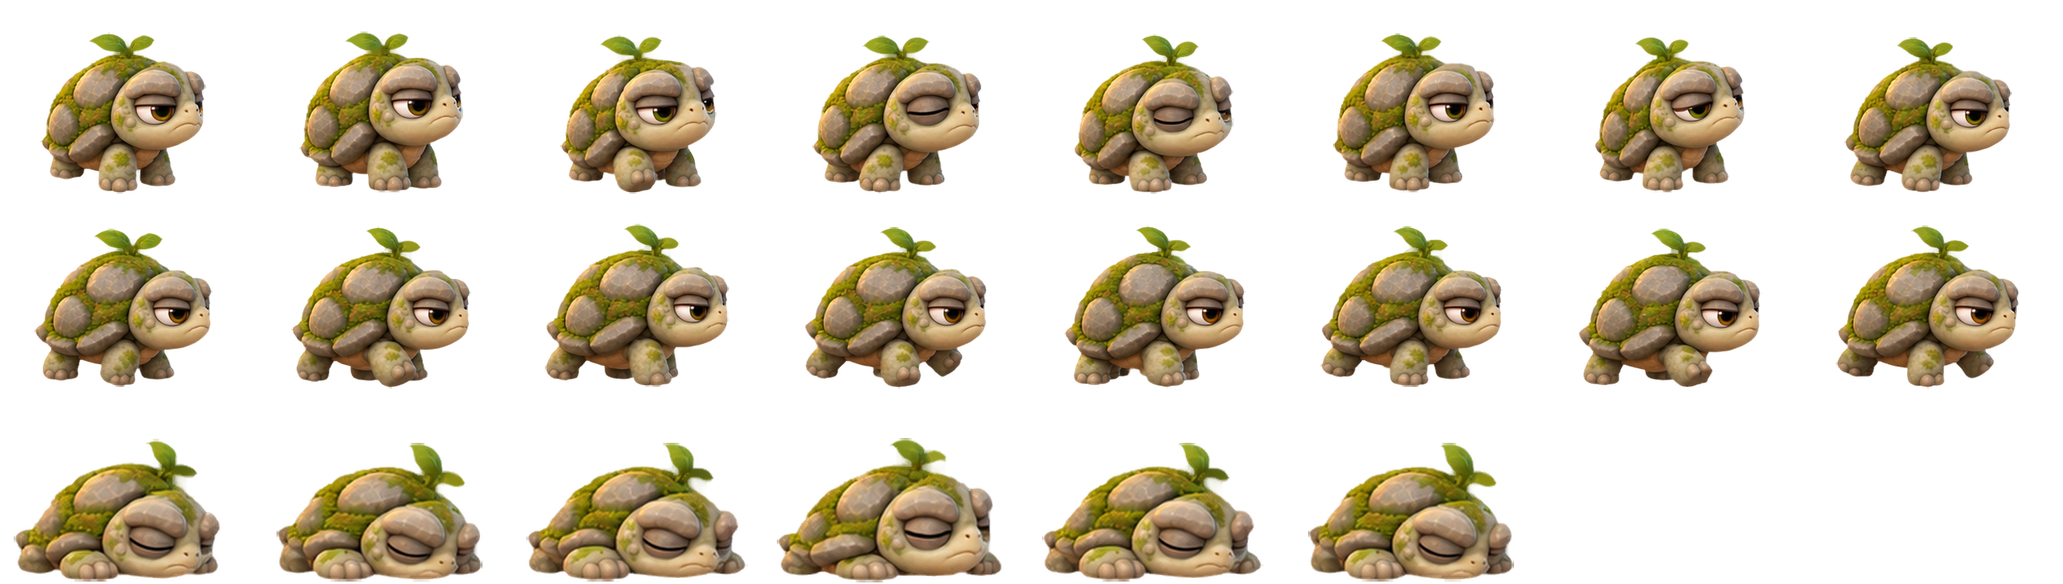
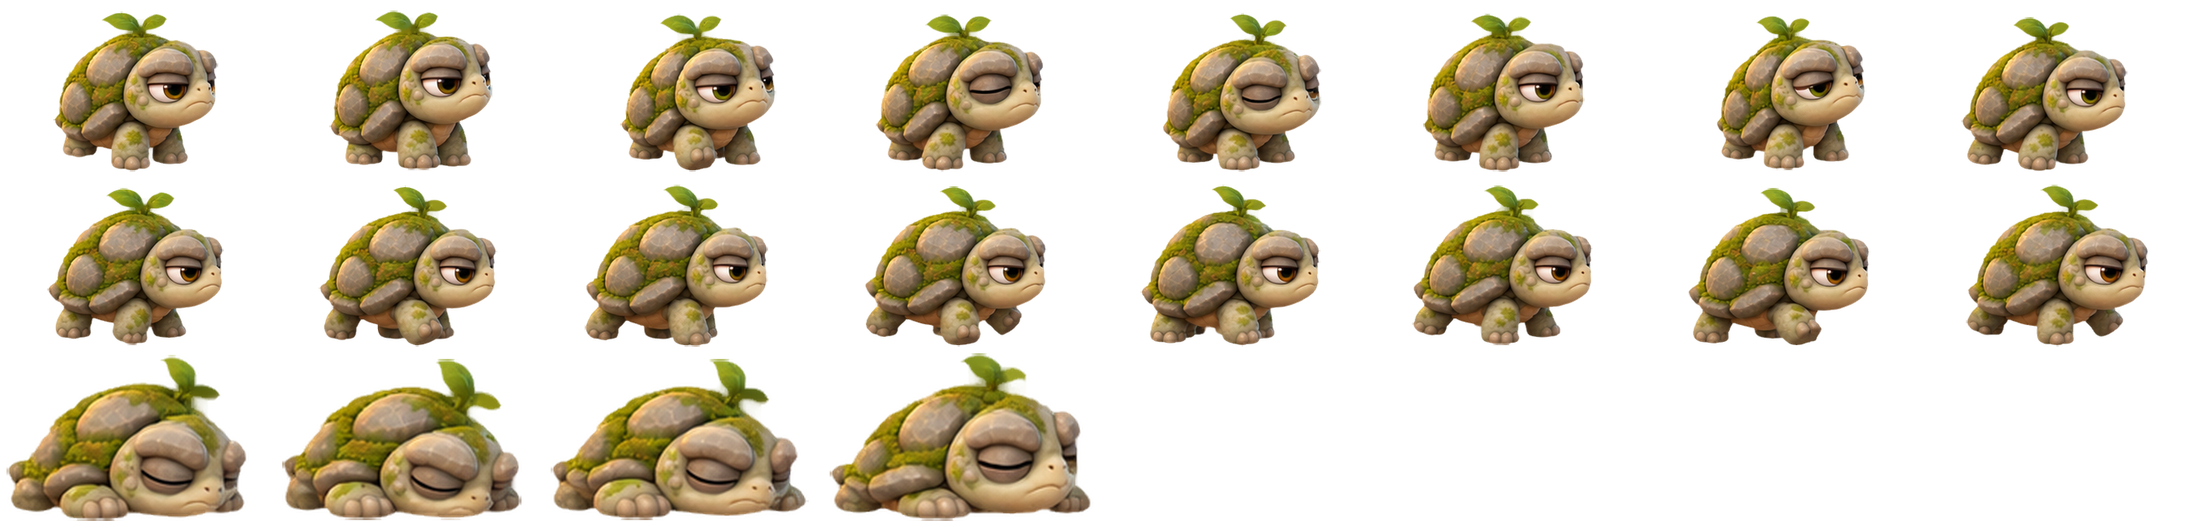
Hatchwild: new sprite-sheet pipeline (registered frames, per-sequence exports, manifests, QC); all four critters re-cut
Claude-Session: https://claude.ai/code/session_01TTPpyuRjXFZd6BDuvJmyjm

diff --git a/prototypes/hatchwild/src.html b/prototypes/hatchwild/src.html
@@ -1023,19 +1023,21 @@ function drawRig(c, sp, R, s, t, moving, blink){
 // Sprite-sheet animations made from ChatGPT pose sheets (scripts/hatchwild-sheet.py). One row per
 // animation in art/anims/<species>.png. Paste each line the script prints here. These win over RIGS.
 const ANIMS = {
-  pebblet: {"cell":[318,240],"ref":0.8,"idle":{"row":0,"n":8,"fps":5},"walk":{"row":1,"n":8,"fps":11},"nap":{"row":2,"n":6,"fps":2}},
-  zippy: {"cell":[282,240],"ref":0.8,"idle":{"row":0,"n":8,"fps":4},"walk":{"row":1,"n":8,"fps":12},"fly":{"row":2,"n":8,"fps":12},"nap":{"row":3,"n":1,"fps":1}},
-  coconeer: {"cell":[211,240],"ref":0.8,"idle":{"row":0,"n":10,"fps":5},"walk":{"row":1,"n":10,"fps":13},"run":{"row":2,"n":10,"fps":16},"attack":{"row":3,"n":8,"fps":16},"hurt":{"row":4,"n":6,"fps":12},"nap":{"row":5,"n":10,"fps":2.5}},
-  puffling: {"cell":[245,240],"ref":0.8,"idle":{"row":0,"n":12,"fps":5},"walk":{"row":1,"n":8,"fps":11},"run":{"row":2,"n":8,"fps":14},"nap":{"row":3,"n":8,"fps":2.5}},
+pebblet: {"cell":[338,216],"anchor":[174,209],"h":190,"idle":{"row":0,"n":8,"fps":5},"walk":{"row":1,"n":8,"fps":9},"nap":{"row":2,"n":4,"fps":4}},
+  zippy: {"cell":[303,310],"anchor":[154,206],"h":190,"idle":{"row":0,"n":7,"fps":5},"walk":{"row":1,"n":8,"fps":9},"fly":{"row":2,"n":6,"fps":12,"torso":1},"nap":{"row":3,"n":1,"fps":4}},
+  coconeer: {"cell":[243,218],"anchor":[107,208],"h":190,"idle":{"row":0,"n":6,"fps":5},"walk":{"row":1,"n":10,"fps":9},"run":{"row":2,"n":10,"fps":12},"attack":{"row":3,"n":8,"fps":12},"hurt":{"row":4,"n":6,"fps":10},"nap":{"row":5,"n":6,"fps":4}},
+  puffling: {"cell":[248,203],"anchor":[131,195],"h":190,"idle":{"row":0,"n":7,"fps":5},"walk":{"row":1,"n":8,"fps":9},"run":{"row":2,"n":8,"fps":12},"nap":{"row":3,"n":5,"fps":4}},
 };
 const ANIM_IMG = {}; for (const k in ANIMS) { const im = new Image(); im.src = 'art/anims/' + k + '.png'; ANIM_IMG[k] = im; }
 const animReady = sp => { const im = ANIM_IMG[sp]; return im && im.complete && im.naturalWidth ? ANIMS[sp] : null; };
 // feet at (0, 0); s = standing height in px; mode = idle | walk | nap | still
 // attack and hurt play once: t is the time since they started
 function drawAnim(c, sp, A, s, t, mode){
-  const a = A[mode] || A.idle, once = mode === 'attack' || mode === 'hurt', f = mode === 'still' ? 0 : once ? Math.min(a.n - 1, Math.floor(t * a.fps)) : Math.floor(t * a.fps) % a.n, [cw, ch] = A.cell, k = s / (ch * A.ref);
-  const up = mode === 'fly' ? s * (.3 + Math.sin(t * 4) * .06) : 0;   // flyers hover above their shadow
-  c.drawImage(ANIM_IMG[sp], f * cw, a.row * ch, cw, ch, -cw * k / 2, -ch * k - up, cw * k, ch * k);
+  // frames are registered to one anchor (feet on the ground, or the torso for flying), so each frame is
+  // drawn with that anchor on the critter's spot; s = standing height in px
+  const a = A[mode] || A.idle, once = mode === 'attack' || mode === 'hurt', f = mode === 'still' ? 0 : once ? Math.min(a.n - 1, Math.floor(t * a.fps)) : Math.floor(t * a.fps) % a.n;
+  const [cw, ch] = A.cell, [ax, ay] = A.anchor, k = s / A.h, up = a.torso ? s * (.5 + Math.sin(t * 4) * .06) : 0;   // flyers hover above their shadow
+  c.drawImage(ANIM_IMG[sp], f * cw, a.row * ch, cw, ch, -ax * k, -ay * k - up, cw * k, ch * k);
 }
 // ================= UI ICONS (SVG) =================
 const ICONS = {

diff --git a/scripts/hatchwild-sheet.py b/scripts/hatchwild-sheet.py
@@ -1,121 +1,274 @@
-# Turns a ChatGPT sprite sheet (see-through background) into animation strips for Hatchwild.
-#   python3 scripts/hatchwild-sheet.py pebblet
-# Reads art-src/hatchwild/<id>-sheet.png, finds every pose, cleans the coloured fringe AI tools
-# leave on the edges, lines the frames up (feet on the ground, body centred) and writes
-# prototypes/hatchwild/art/anims/<id>.png (one row per animation). Prints the line for ANIMS in the game.
-import sys, json, os
+# Turns a ChatGPT pose sheet for a Hatchwild critter into clean animation assets.
+#   python3 scripts/hatchwild-sheet.py coconeer        (or: all)
+#
+# Reads art-src/hatchwild/<id>-sheet.png and does, for every sequence listed in SHEETS:
+#   - cuts each pose out (labelled rows or plain rows), erasing labels and the coloured fringe AI tools
+#     leave on edges; the artwork itself is not redrawn or altered
+#   - registers the frames to one anchor so nothing jitters: feet on the ground and the body locked for
+#     walks/idles, feet planted for actions, torso centre for flying, and the sheet's own heights for jumps
+#   - exports art-src/hatchwild/export/<id>/: each frame as a PNG, one strip per sequence (identical cells),
+#     a preview GIF, <id>_manifest.json and a quality report, plus <id>_overview.gif (every sequence at once)
+#   - builds the game atlas prototypes/hatchwild/art/anims/<id>.png (only the rows the game plays) and
+#     prints the line to paste into ANIMS in the game.
+import sys, json, os, glob
 import numpy as np, cv2
-from PIL import Image
+from PIL import Image, ImageDraw
 
-# Poses are numbered left to right, top to bottom (0 = top-left). ref = poses of the normal standing
-# size; scale lets a row drawn smaller on the sheet be brought up to size.
+# Poses are numbered left to right, top to bottom (0 = top-left) as the finder sees them.
+# reg: lock = feet on the ground, head/back locked in place (walk, run, idle, blink, sleep)
+#      plant = feet planted, body free to lean and recoil (attack, hurt, turn)
+#      sheet = heights kept from the sheet, so jumps really rise (jump, land)
+#      torso = torso centre (flying)
+# scale: for a sequence drawn smaller on the sheet, poses of that sequence's area that match the
+#        standing pose, used to bring it back to the same size (game atlas only; exports stay 1:1).
+def S(name, poses, fps, loop=True, reg='lock', **kw): return dict(name=name, poses=list(poses), fps=fps, loop=loop, reg=reg, **kw)
 SHEETS = {
-  'pebblet': {'ref': range(8, 16), 'anims': {
-      'idle': {'poses': list(range(8, 16)), 'fps': 5},
-      'walk': {'poses': list(range(0, 8)), 'fps': 11},
-      'nap':  {'poses': [34, 35, 36, 37, 36, 35], 'fps': 2, 'scaleFrom': range(27, 31), 'size': .85},
-  }},
-  'zippy': {'ref': [14, 18, 19, 20], 'anims': {
-      'idle': {'poses': [14, 18, 19, 18, 14, 15, 16, 17], 'fps': 4},
-      'walk': {'poses': list(range(0, 8)), 'fps': 12},
-      'fly':  {'poses': [8, 9, 10, 11, 12, 11, 10, 9], 'fps': 12},   # used for moving in battle
-      'nap':  {'poses': [24], 'fps': 1, 'size': .95},
-  }},
-  'coconeer': {'labeled': True, 'ref': range(0, 6), 'anims': {
-      'idle':   {'poses': [0, 1, 2, 3, 4, 5, 4, 3, 2, 1], 'fps': 5},
-      'walk':   {'poses': list(range(6, 16)), 'fps': 13},
-      'run':    {'poses': list(range(16, 26)), 'fps': 16},   # moving in battle
-      'attack': {'poses': list(range(33, 41)), 'fps': 16},   # plays once per throw
-      'hurt':   {'poses': list(range(48, 54)), 'fps': 12},   # plays once when hit
-      'nap':    {'poses': [54, 55, 56, 57, 58, 59, 58, 57, 56, 55], 'fps': 2.5},
-  }},
-  'puffling': {'labeled': True, 'ref': range(0, 7), 'anims': {
-      'idle': {'poses': [0, 1, 2, 3, 4, 5, 6, 5, 4, 3, 2, 1], 'fps': 5},
-      'walk': {'poses': list(range(7, 15)), 'fps': 11},
-      'run':  {'poses': list(range(15, 23)), 'fps': 14},
-      'nap':  {'poses': [39, 40, 41, 42, 43, 42, 41, 40], 'fps': 2.5},
-  }},
+  'pebblet': {'ref': 'idle', 'seqs': [
+      S('walk', range(0, 8), 9), S('idle', range(8, 16), 5), S('turn', range(16, 27), 8, False, 'plant'),
+      S('blink', range(27, 31), 10, hold=1.2, scale=range(27, 31)), S('yawn', range(31, 34), 6, False, 'plant', scale=range(27, 31)),
+      S('sleep', range(34, 38), 4, scale=range(27, 31)), S('wake', range(38, 40), 6, False, 'plant', scale=range(27, 31))],
+    'game': {'idle': 'idle', 'walk': 'walk', 'nap': 'sleep'}},
+  'zippy': {'ref': 'idle', 'seqs': [
+      S('walk', range(0, 8), 9), S('fly', range(8, 14), 12, reg='torso'), S('idle', range(14, 21), 5),
+      S('peck', range(22, 24), 8, False, 'plant'), S('sleep', [24], 4), S('surprise', range(25, 27), 8, False, 'plant')],
+    'skip': {21: 'a single back-view pose at the end of the idle row', 27: 'a single fly-away pose seen from behind'},
+    'game': {'idle': 'idle', 'walk': 'walk', 'fly': 'fly', 'nap': 'sleep'}},
+  'coconeer': {'labeled': True, 'ref': 'idle', 'seqs': [
+      S('idle', range(0, 6), 5), S('walk', range(6, 16), 9), S('run', range(16, 26), 12), S('jump', range(26, 33), 11, False, 'sheet'),
+      S('throw', range(33, 41), 12, False, 'plant'), S('hit', range(41, 48), 10, False, 'plant'), S('hurt', range(48, 54), 10, False, 'plant'),
+      S('sleep', range(54, 60), 4)],
+    'notes': ['The two in-flight coconut frames on the THROW row are just the coconut, not Coco, so they are left out; the game draws its own flying coconut.'],
+    'game': {'idle': 'idle', 'walk': 'walk', 'run': 'run', 'attack': 'throw', 'hurt': 'hurt', 'nap': 'sleep'}},
+  'puffling': {'labeled': True, 'ref': 'idle', 'seqs': [
+      S('idle', range(0, 7), 5), S('walk', range(7, 15), 9), S('run', range(15, 23), 12), S('jump', range(23, 31), 11, False, 'sheet'),
+      S('blink', range(31, 39), 10, hold=1.2), S('sleep', range(39, 46), 4)],
+    'game': {'idle': 'idle', 'walk': 'walk', 'run': 'run', 'nap': ('sleep', range(0, 5))}},   # the last two sleep poses are drawn smaller
 }
-CELL_H = 240   # pixels per frame in the output
+GAME_H = 190   # a standing critter is this many pixels tall in the game atlas
+SRC, EXP, ATLAS = 'art-src/hatchwild', 'art-src/hatchwild/export', 'prototypes/hatchwild/art'
 
-def poses(img):
-  a = img[..., 3]; m = cv2.morphologyEx((a > 40).astype(np.uint8), cv2.MORPH_CLOSE, np.ones((9, 9), np.uint8))
+# ---------- finding poses ----------
+class Pose:
+  def __init__(s, px, X, Y, row, warn=None): s.px, s.X, s.Y, s.row, s.warn = px, X, Y, row, warn or []
+
+def keep_pieces(a, main, box, margin=.12):
+  # small separate pieces (Zzz, dizzy stars, sparks) belong to a pose if they sit over it
+  x0, y0, x1, y1 = box; w, h = x1 - x0, y1 - y0; n, lab, st, _ = cv2.connectedComponentsWithStats(a.astype(np.uint8))
+  keep = main.copy(); dropped = 0
+  for i in range(1, n):
+    x, y, bw, bh, ar = st[i]
+    if keep[lab == i].any() or ar < 150: continue
+    cx, cy = x + bw / 2, y + bh / 2
+    if x0 - w * margin < cx < x1 + w * margin and y0 - h * margin < cy < y1 + h * .05: keep |= lab == i
+    else: dropped += 1
+  return keep, dropped
+
+def find_plain(img):
+  a = img[..., 3] > 40; m = cv2.morphologyEx(a.astype(np.uint8), cv2.MORPH_CLOSE, np.ones((9, 9), np.uint8))
   n, lab, st, _ = cv2.connectedComponentsWithStats(m)
   bl = [(i, *st[i][:4]) for i in range(1, n) if st[i][4] > 2000]
-  rows = []   # group into rows by vertical overlap, then left to right
+  rows = []
   for b in sorted(bl, key=lambda b: b[2]):
     for r in rows:
       if b[2] < r['y1'] - 20: r['b'].append(b); r['y1'] = max(r['y1'], b[2] + b[4]); break
     else: rows.append({'b': [b], 'y1': b[2] + b[4]})
   out = []
-  for r in rows:
-    for i, x, y, w, h in sorted(r['b'], key=lambda b: b[1]): out.append((lab[y:y + h, x:x + w] == i, img[y:y + h, x:x + w]))
-  return out
+  for r_i, r in enumerate(rows):
+    for i, x, y, w, h in sorted(r['b'], key=lambda b: b[1]):
+      out.append(Pose(img[y:y + h, x:x + w] * (lab[y:y + h, x:x + w] == i)[..., None], x, y, r_i))
+  return out, []
 
-def poses_labeled(img, label_w=100):
-  # rows marked by text labels at the left edge; poses may touch the rows above and below
+def find_labeled(img):
+  # rows are marked by text pills at the left edge; poses may touch their neighbours
   a = img[..., 3] > 40; n, lab, st, _ = cv2.connectedComponentsWithStats(a.astype(np.uint8))
   labels = [i for i in range(1, n) if st[i][0] < 20 and st[i][2] > 60 and st[i][3] < 45]
-  tops = sorted(int(st[i][1]) for i in labels)
-  a = a & ~np.isin(lab, labels); label_w = 0   # erase the label pills, keep poses that reach the left edge
-  H = img.shape[0]; out = []
+  tops = sorted(int(st[i][1]) for i in labels); a = a & ~np.isin(lab, labels)
+  H = img.shape[0]; out, dropped = [], 0
   for r, y0 in enumerate(tops):
     y0 = max(0, y0 - 12); y1 = min(H, tops[r + 1] - 12) if r + 1 < len(tops) else H
-    band = a[y0:y1, label_w:]; rgb = np.ascontiguousarray(img[y0:y1, label_w:, :3])
-    # split touching poses: seeds from a heavily shrunk mask, then grow them back (watershed)
+    band = a[y0:y1]; rgb = np.ascontiguousarray(img[y0:y1, :, :3])
     core = cv2.erode(band.astype(np.uint8), np.ones((15, 15), np.uint8))
     k, seeds, s2, _ = cv2.connectedComponentsWithStats(core)
-    markers = np.zeros(band.shape, np.int32); ids = [i for i in range(1, k) if s2[i][4] > 1500]
+    ids = [i for i in range(1, k) if s2[i][4] > 1500]; markers = np.zeros(band.shape, np.int32)
     for j, i in enumerate(ids): markers[seeds == i] = j + 2
     markers[~cv2.dilate(band.astype(np.uint8), np.ones((3, 3), np.uint8)).astype(bool)] = 1
     cv2.watershed(cv2.cvtColor(rgb, cv2.COLOR_RGB2BGR), markers)
+    regions = [(markers == j + 2) & band for j in range(len(ids))]
     row = []
-    for j in range(len(ids)):
-      m = (markers == j + 2) & band
-      if m.sum() < 5000: continue   # a thrown coconut, a star, some Zzz
+    for j, m in enumerate(regions):
+      if m.sum() < 5000: continue
+      ys, xs = np.where(m); box = (xs.min(), ys.min(), xs.max() + 1, ys.max() + 1)
+      others = np.zeros_like(m)
+      for jj, mm in enumerate(regions):
+        if jj != j: others |= mm
+      warn = []
+      if (cv2.dilate(m.astype(np.uint8), np.ones((5, 5), np.uint8)).astype(bool) & others).sum() > 40: warn.append('touched the pose next to it on the sheet; its edge there may be slightly cut')
+      if m[0].any() or m[-1].any(): warn.append('reaches into the row above or below; may be cut at the top or bottom')
+      m, d = keep_pieces(band & ~others, m, box); dropped += d
       ys, xs = np.where(m); bx, by, bx1, by1 = xs.min(), ys.min(), xs.max() + 1, ys.max() + 1
-      row.append((bx, m[by:by1, bx:bx1], img[y0 + by:y0 + by1, label_w + bx:label_w + bx1]))
-    row = [(m, px) for _, m, px in sorted(row, key=lambda f: f[0])]
-    out.append(row)
-  print('rows:', [len(r) for r in out], file=sys.stderr)
-  return [f for r in out for f in r]
+      px = img[y0 + by:y0 + by1, bx:bx1] * m[by:by1, bx:bx1][..., None]
+      row.append(Pose(px, bx, y0 + by, r, warn))
+    out += sorted(row, key=lambda p: p.X)
+  notes = []
+  return out, notes
 
-def clean(mask, px):
-  a = px[..., 3].astype(np.float32) * mask; solid = (a >= 245).astype(np.uint8)
-  solid = cv2.erode(solid, np.ones((3, 3), np.uint8))
-  rgb = cv2.cvtColor(px[..., :3], cv2.COLOR_RGB2BGR)
-  rgb = cv2.cvtColor(cv2.inpaint(rgb, (1 - solid) * 255, 5, cv2.INPAINT_TELEA), cv2.COLOR_BGR2RGB)   # edge colours come from inside, not the halo
+def clean(px):
+  # the artwork stays as drawn; only the semi-transparent coloured halo around the edge is replaced by
+  # the neighbouring edge colour, and the alpha edge is tightened by one pixel
+  a = px[..., 3].astype(np.float32); solid = cv2.erode((a >= 245).astype(np.uint8), np.ones((3, 3), np.uint8))
+  rgb = cv2.cvtColor(np.ascontiguousarray(px[..., :3]), cv2.COLOR_RGB2BGR)
+  fixed = cv2.cvtColor(cv2.inpaint(rgb, (1 - solid) * 255, 5, cv2.INPAINT_TELEA), cv2.COLOR_BGR2RGB)
+  rgb = np.where(solid[..., None] > 0, px[..., :3], fixed)
   a = cv2.erode(a, np.ones((3, 3), np.uint8)); a = np.where(a > 200, 255, a)
-  return np.dstack([rgb, a.astype(np.uint8)])
+  return np.dstack([rgb, a]).astype(np.uint8)
 
-def anchor(p):   # feet = lowest solid row; centre = middle of the upper body
-  a = p[..., 3] > 128; ys = np.where(a.any(1))[0]; top, bot = ys[0], ys[-1]
-  upper = a[top:top + int((bot - top) * .6)]; xs = np.where(upper)[1]
-  return xs.mean(), bot, bot - top
+# ---------- measuring ----------
+def feet_row(p):
+  rows = np.where(((p[..., 3] > 128).sum(1)) >= 4)[0]; return rows[-1] if len(rows) else p.shape[0] - 1
+def height(p): a = (p[..., 3] > 128).any(1); ys = np.where(a)[0]; return feet_row(p) - ys[0]
+def upper_x(p):
+  a = p[..., 3] > 128; ys = np.where(a.any(1))[0]; top, bot = ys[0], feet_row(p)
+  return np.where(a[top:top + int((bot - top) * .6)])[1].mean()
+def feet_x(p):
+  a = p[..., 3] > 128; b = feet_row(p); top = np.where(a.any(1))[0][0]
+  return np.where(a[max(top, b - int((b - top) * .1)):b + 1])[1].mean()
+def torso(p):
+  a = (p[..., 3] > 128).astype(np.uint8); d = cv2.distanceTransform(a, cv2.DIST_L2, 5)
+  ys, xs = np.where(d > d.max() * .55); return xs.mean(), ys.mean()
+
+def upper_img(p, ax, ay, S=512):
+  c = np.zeros((S, S), np.float32); ox, oy = round(S / 2 - ax), round(S * .8 - ay)
+  a = p[..., 3].astype(np.float32) / 255; g = p[..., :3].mean(2) * a
+  top = np.where(a.any(1))[0][0]; g[int(top + (feet_row(p) - top) * .6):] = 0
+  h, w = g.shape; x0, y0 = max(0, ox), max(0, oy); x1, y1 = min(S, ox + w), min(S, oy + h)
+  if x1 > x0 and y1 > y0: c[y0:y1, x0:x1] = g[y0 - oy:y1 - oy, x0 - ox:x1 - ox]
+  return c
+
+def register(frames, reg, poses):
+  # returns the anchor point (ax, ay) inside each frame
+  if reg == 'torso': return [torso(p) for p in frames]
+  if reg == 'plant': return [(feet_x(p), feet_row(p)) for p in frames]
+  anc = [(upper_x(p), feet_row(p)) for p in frames]
+  if reg == 'sheet':   # keep the heights the sheet drew: the lowest pose stands on the ground
+    base = max(ps.Y + feet_row(p) for ps, p in zip(poses, frames)); anc = [(ax, base - ps.Y) for (ax, _), ps in zip(anc, poses)]
+  if len(frames) > 1:   # lock the head and back to the first frame so the body doesn't jitter sideways
+    win = cv2.createHanningWindow((512, 512), cv2.CV_32F); ref = upper_img(frames[0], *anc[0]) * win
+    for i in range(1, len(frames)):
+      (dx, dy), resp = cv2.phaseCorrelate(ref, upper_img(frames[i], *anc[i]) * win)
+      if resp > .05 and abs(dx) < frames[i].shape[1] * .15: anc[i] = (anc[i][0] + dx, anc[i][1])
+  return anc
+
+def qc(name, frames, anc, seq, poses):
+  out = []
+  for i, ps in enumerate(poses):
+    for w in ps.warn: out.append(f'frame {i + 1} {w}')
+  if seq['reg'] in ('lock', 'sheet') and len(frames) > 1:
+    hs = [height(p) for p in frames]; v = (max(hs) - min(hs)) / np.median(hs)
+    if v > .12 and seq['reg'] == 'lock': out.append(f'size changes by {v:.0%} between frames (the sheet drew some frames bigger)')
+    win = cv2.createHanningWindow((512, 512), cv2.CV_32F); ups = [upper_img(p, *a) * win for p, a in zip(frames, anc)]
+    worst = max(abs(cv2.phaseCorrelate(ups[i], ups[i + 1])[0][0]) for i in range(len(ups) - 1))
+    if worst > frames[0].shape[1] * .04: out.append(f'the head/back still shifts up to {worst:.0f}px between frames')
+  def diff(p, q, a, b):
+    S = 512; c = []
+    for f, (ax, ay) in ((p, a), (q, b)):
+      im = Image.new('RGBA', (S, S)); im.alpha_composite(Image.fromarray(f), (round(S / 2 - ax), round(S * .8 - ay))); c.append(np.array(im).astype(np.float32))
+    return np.abs(c[0] - c[1]).mean()
+  if len(frames) > 2:
+    ds = [diff(frames[i], frames[i + 1], anc[i], anc[i + 1]) for i in range(len(frames) - 1)]
+    for i, d in enumerate(ds):
+      if d < np.median(ds) * .15: out.append(f'frames {i + 1} and {i + 2} are nearly identical')
+    if seq['loop']:
+      dl = diff(frames[-1], frames[0], anc[-1], anc[0])
+      if dl > max(ds) * 1.5: out.append('the loop jumps noticeably from the last frame back to the first')
+  return out
+
+# ---------- output ----------
+def layout(frames, anc, f=1, pad=6):
+  L = max(ax * f for ax, _ in anc); R = max((p.shape[1] - ax) * f for p, (ax, _) in zip(frames, anc))
+  U = max(ay * f for _, ay in anc); D = max((p.shape[0] - ay) * f for p, (_, ay) in zip(frames, anc))
+  return int(np.ceil(L + R)) + 2 * pad, int(np.ceil(U + D)) + 2 * pad, int(np.ceil(L)) + pad, int(np.ceil(U)) + pad
+
+def place(p, ax, ay, W, H, AX, AY, f=1):
+  im = Image.fromarray(p)
+  if f != 1: im = im.resize((max(1, round(im.width * f)), max(1, round(im.height * f))), Image.LANCZOS)
+  c = Image.new('RGBA', (W, H), (0, 0, 0, 0)); c.alpha_composite(im, (round(AX - ax * f), round(AY - ay * f))); return c
+
+def gif(cells, path, fps, hold=0, loop=True, bg=(236, 240, 232)):
+  sc = min(1, 256 / max(cells[0].size)); out = []
+  for c in cells:
+    b = Image.new('RGBA', c.size, bg + (255,)); b.alpha_composite(c); b = b.convert('RGB')
+    out.append(b.resize((round(b.width * sc), round(b.height * sc)), Image.LANCZOS) if sc < 1 else b)
+  dur = [round(1000 / fps)] * len(out)
+  if hold: dur[0] = round(hold * 1000)
+  if not loop: dur[-1] = 900   # pause on the last frame so a one-shot is readable
+  out[0].save(path, save_all=True, append_images=out[1:], duration=dur, loop=0)
 
 def main(cid):
-  S = SHEETS[cid]; img = np.array(Image.open(f'art-src/hatchwild/{cid}-sheet.png').convert('RGBA'))
-  P = [clean(m, px) for m, px in (poses_labeled(img) if S.get('labeled') else poses(img))]; print(f'{len(P)} poses found', file=sys.stderr)
-  refH = np.median([anchor(P[i])[2] for i in S['ref']]); k = CELL_H * .8 / refH   # a standing pose fills 80% of the cell height
-  rows, spec = [], {'cell': [0, CELL_H], 'ref': .8}
-  prepared = {}
-  for name, A in S['anims'].items():
-    f = k * (refH / np.median([anchor(P[i])[2] for i in A['scaleFrom']]) if 'scaleFrom' in A else 1) * A.get('size', 1)
-    fr = []
-    for i in A['poses']:
-      p = P[i]; cx, by, _ = anchor(p); im = Image.fromarray(p).resize((round(p.shape[1] * f), round(p.shape[0] * f)), Image.LANCZOS)
-      fr.append((im, cx * f, by * f))
-    prepared[name] = fr
-  W = int(max(max(max(cx, im.width - cx) for im, cx, _ in fr) for fr in prepared.values()) * 2 + 8)
-  spec['cell'][0] = W
-  names = list(prepared)
-  sheet = Image.new('RGBA', (W * max(len(fr) for fr in prepared.values()), CELL_H * len(names)), (0, 0, 0, 0))
-  for r, name in enumerate(names):
-    for j, (im, cx, by) in enumerate(prepared[name]):
-      sheet.alpha_composite(im, (round(j * W + W / 2 - cx), round(r * CELL_H + CELL_H - 4 - by)))
-    spec[name] = {'row': r, 'n': len(prepared[name]), 'fps': S['anims'][name]['fps']}
-  os.makedirs('prototypes/hatchwild/art/anims', exist_ok=True); sheet.save(f'prototypes/hatchwild/art/anims/{cid}.png', optimize=True)
-  still = prepared['idle'][0][0]; still.crop(still.getchannel('A').getbbox()).save(f'prototypes/hatchwild/art/critters/{cid}.png', optimize=True)
+  C = SHEETS[cid]; img = np.array(Image.open(f'{SRC}/{cid}-sheet.png').convert('RGBA'))
+  P, notes = (find_labeled if C.get('labeled') else find_plain)(img); notes = C.get('notes', []) + notes
+  for p in P: p.px = clean(p.px)
+  used = {i for s in C['seqs'] for i in s['poses']}
+  for i in range(len(P)):
+    if i not in used: notes.append(f'pose {i} not used: ' + C.get('skip', {}).get(i, 'not part of a clear sequence'))
+  out = f'{EXP}/{cid}'; os.makedirs(out, exist_ok=True)
+  for f in glob.glob(f'{out}/*'): os.remove(f)
+  refH = np.median([height(P[i].px) for i in next(s for s in C['seqs'] if s['name'] == C['ref'])['poses']])
+  man = {'character': cid, 'source': f'{cid}-sheet.png', 'poses_found': len(P), 'notes': notes, 'animations': []}
+  done = {}
+  for seq in C['seqs']:
+    poses = [P[i] for i in seq['poses']]; frames = [p.px for p in poses]; anc = register(frames, seq['reg'], poses)
+    W, H, AX, AY = layout(frames, anc); cells = [place(p, ax, ay, W, H, AX, AY) for p, (ax, ay) in zip(frames, anc)]
+    n = seq['name']
+    for j, c in enumerate(cells): c.save(f'{out}/{cid}_{n}_{j + 1:02d}.png', optimize=True)
+    strip = Image.new('RGBA', (W * len(cells), H))
+    for j, c in enumerate(cells): strip.alpha_composite(c, (j * W, 0))
+    strip.save(f'{out}/{cid}_{n}_spritesheet.png', optimize=True)
+    gif(cells, f'{out}/{cid}_{n}_preview.gif', seq['fps'], seq.get('hold', 0), seq['loop'])
+    sf = refH / np.median([height(P[i].px) for i in seq['scale']]) if 'scale' in seq else 1
+    issues = qc(n, frames, anc, seq, poses)
+    man['animations'].append({'name': n, 'frames': len(cells), 'frame_width': W, 'frame_height': H, 'fps': seq['fps'], 'loop': seq['loop'],
+      **({'hold_first_frame_s': seq['hold']} if seq.get('hold') else {}),
+      'anchor': {'x': AX, 'y': AY, 'type': {'lock': 'feet on the ground, head/back locked', 'plant': 'feet planted', 'sheet': 'ground line of the lowest pose (heights from the sheet)', 'torso': 'torso centre'}[seq['reg']]},
+      'frame_order': [f'{cid}_{n}_{j + 1:02d}.png' for j in range(len(cells))], 'source_poses': seq['poses'],
+      **({'drawn_at_scale': round(1 / sf, 2)} if sf != 1 else {}), 'checks': issues or ['ok']})
+    done[n] = (frames, anc, sf, seq)
+  json.dump(man, open(f'{out}/{cid}_manifest.json', 'w'), indent=2)
+  # overview: every sequence playing side by side
+  seqs = list(done); tiles = []
+  for n in seqs:
+    frames, anc, sf, seq = done[n]; W, H, AX, AY = layout(frames, anc, sf * 170 / refH)
+    tiles.append((n, [place(p, ax, ay, W, H, AX, AY, sf * 170 / refH) for p, (ax, ay) in zip(frames, anc)], seq))
+  TW, TH, cols = max(t[1][0].width for t in tiles), max(t[1][0].height for t in tiles) + 26, 4
+  rows = (len(tiles) + cols - 1) // cols; ov = []
+  for k in range(60):
+    t = k / 20; im = Image.new('RGB', (TW * cols, TH * rows), (236, 240, 232)); d = ImageDraw.Draw(im)
+    for j, (n, cells, seq) in enumerate(tiles):
+      x, y = (j % cols) * TW, (j // cols) * TH; fi = int(t * seq['fps']); fi = fi % len(cells) if seq['loop'] else min(fi % (len(cells) + 8), len(cells) - 1)
+      im.paste(cells[fi], (x + (TW - cells[fi].width) // 2, y + 22), cells[fi]); d.text((x + 8, y + 6), n, fill=(60, 50, 40))
+    ov.append(im)
+  ov[0].save(f'{out}/{cid}_overview.gif', save_all=True, append_images=ov[1:], duration=50, loop=0)
+  # game atlas: only the rows the game plays, one shared cell with one anchor
+  G = C['game']; f0 = GAME_H / refH; parts = []
+  for gname, sname in G.items():
+    sub = None
+    if isinstance(sname, tuple): sname, sub = sname
+    frames, anc, sf, seq = done[sname]
+    if sub is not None: frames, anc = [frames[i] for i in sub], [anc[i] for i in sub]
+    parts.append((gname, frames, anc, f0 * sf, seq))
+  L = max(max(ax * f for ax, _ in anc) for _, _, anc, f, _ in parts); R = max(max((p.shape[1] - ax) * f for p, (ax, _) in zip(fr, anc)) for _, fr, anc, f, _ in parts)
+  U = max(max(ay * f for _, ay in anc) for _, _, anc, f, _ in parts); D = max(max((p.shape[0] - ay) * f for p, (_, ay) in zip(fr, anc)) for _, fr, anc, f, _ in parts)
+  pad = 4; W, H, AX, AY = int(L + R) + 2 * pad, int(U + D) + 2 * pad, int(L) + pad, int(U) + pad
+  atlas = Image.new('RGBA', (W * max(len(p[1]) for p in parts), H * len(parts))); spec = {'cell': [W, H], 'anchor': [AX, AY], 'h': GAME_H}
+  for r, (gname, frames, anc, f, seq) in enumerate(parts):
+    for j, (p, (ax, ay)) in enumerate(zip(frames, anc)): atlas.alpha_composite(place(p, ax, ay, W, H, AX, AY, f), (j * W, r * H))
+    spec[gname] = {'row': r, 'n': len(frames), 'fps': seq['fps'], **({'torso': 1} if seq['reg'] == 'torso' else {})}
+  os.makedirs(f'{ATLAS}/anims', exist_ok=True); atlas.save(f'{ATLAS}/anims/{cid}.png', optimize=True)
+  frames, anc, sf, _ = done[G['idle'] if isinstance(G['idle'], str) else G['idle'][0]]; st = place(frames[0], *anc[0], W, H, AX, AY, f0 * sf); st.crop(st.getchannel('A').getbbox()).save(f'{ATLAS}/critters/{cid}.png', optimize=True)
+  # report
+  print(f'== {cid}: {len(P)} poses found', file=sys.stderr)
+  for a in man['animations']: print(f"  {a['name']:<9} {a['frames']:>2} frames {a['frame_width']}x{a['frame_height']} {a['fps']}fps {'loop' if a['loop'] else 'once'}  " + '; '.join(a['checks']), file=sys.stderr)
+  for n in notes: print('  note:', n, file=sys.stderr)
   print(f"  {cid}: {json.dumps(spec, separators=(',', ':'))},")
 
-if __name__ == '__main__': main(sys.argv[1])
+if __name__ == '__main__':
+  for c in (SHEETS if sys.argv[1] == 'all' else [sys.argv[1]]): main(c)
